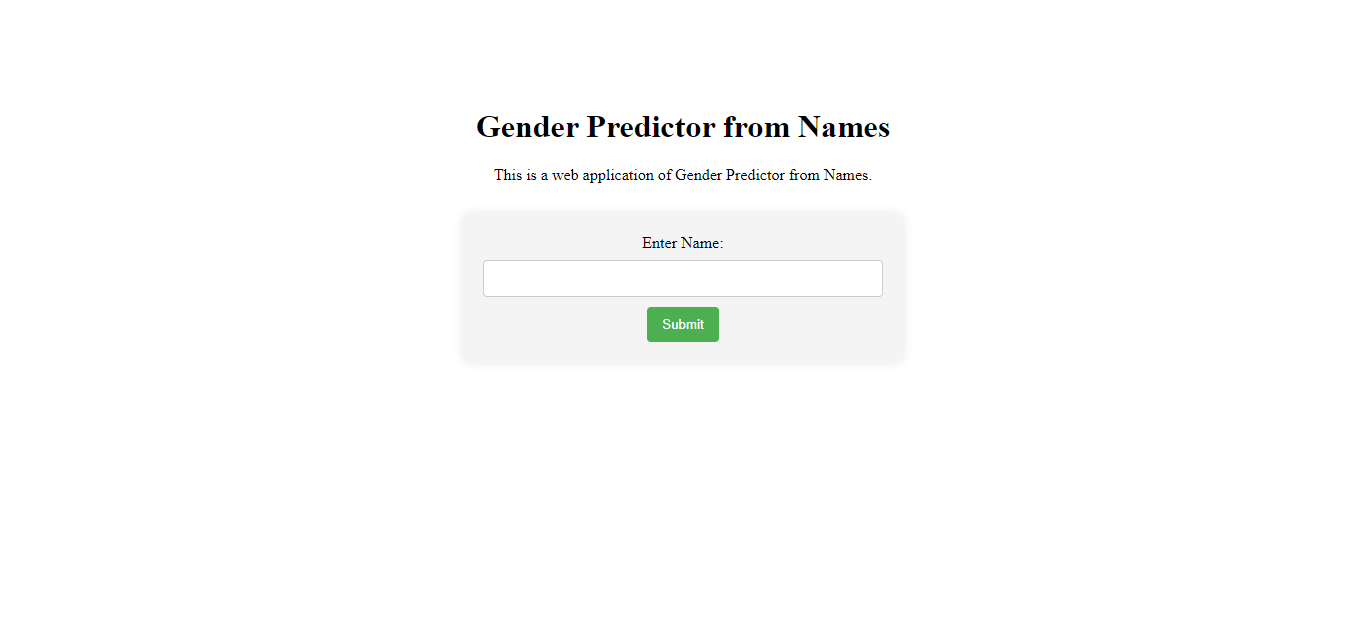
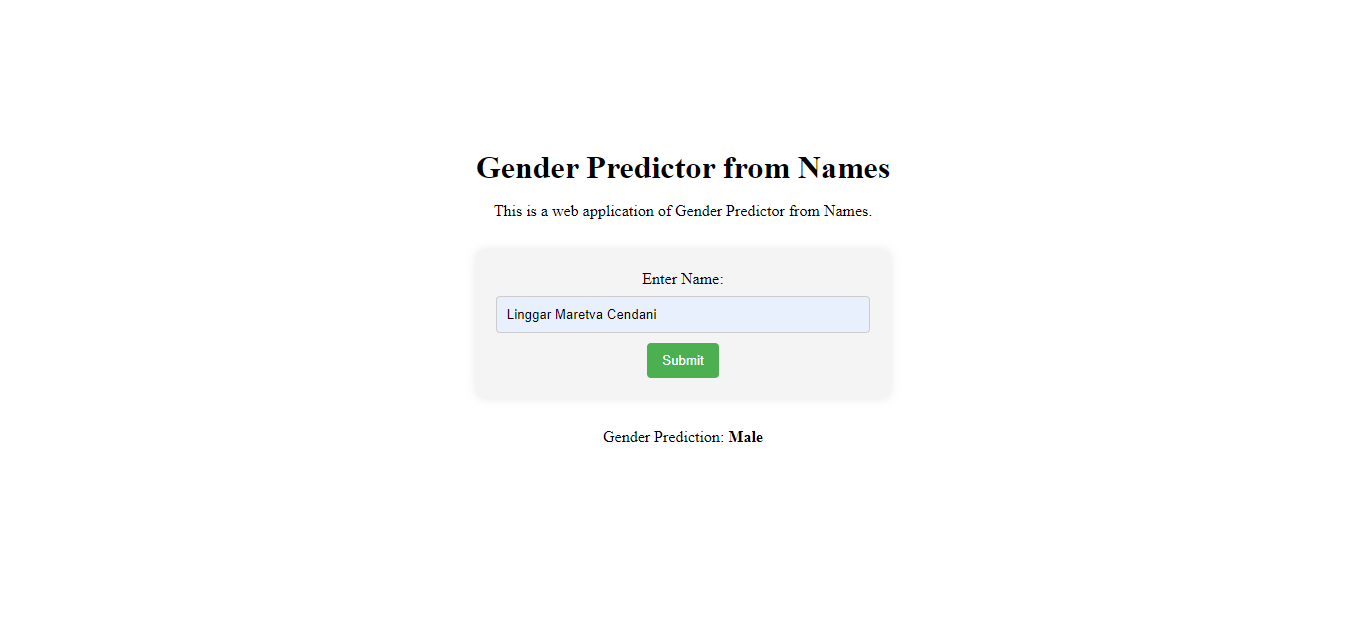
Update images

diff --git a/templates/index.html b/templates/index.html
@@ -8,16 +8,18 @@
     <link rel="stylesheet" type="text/css" href="{{ url_for('static',filename='css/styles.css') }}">
 </head>
 <body>
-    <h1>Gender Predictor from Names</h1>
-    <p>This is a web application of Gender Predictor from Names.</p>
-    <form id="genderForm">
-        <label for="nameInput">Enter Name:</label>
-        <input type="text" id="nameInput" name="name" required>
-        <button type="button" onclick="predictGender()" onsubmit"predictGender()">Submit</button>
-    </form>
+    <div id="form-container">
+        <h1>Gender Predictor from Names</h1>
+        <p>This is a web application of Gender Predictor from Names.</p>
+        <form id="genderForm">
+            <label for="nameInput">Enter Name:</label>
+            <input type="text" id="nameInput" name="name" required>
+            <button type="button" onclick="predictGender()" onsubmit"predictGender()">Submit</button>
+        </form>
 
-    <div id="resultContainer">
-        <p id="predictionResult">Gender Prediction: </p>
+        <div id="resultContainer">
+            <p id="predictionResult">Gender Prediction: </p>
+        </div>
     </div>
 
     <script>

diff --git a/static/css/styles.css b/static/css/styles.css
@@ -1,11 +1,25 @@
+body {
+        display: flex;
+        align-items: center;
+        justify-content: center;
+        height: 100vh;
+        margin: 0;
+}
+
+#form-container {
+}
+
 h1 {
     text-align: center;
-    margin-top: 100px
+    margin: 0;
+    margin-bottom: 10px
 }
+
 p {
     text-align: center;
     margin-bottom: 30px
 }
+
 form {
     max-width: 400px;
     margin: 0 auto;
